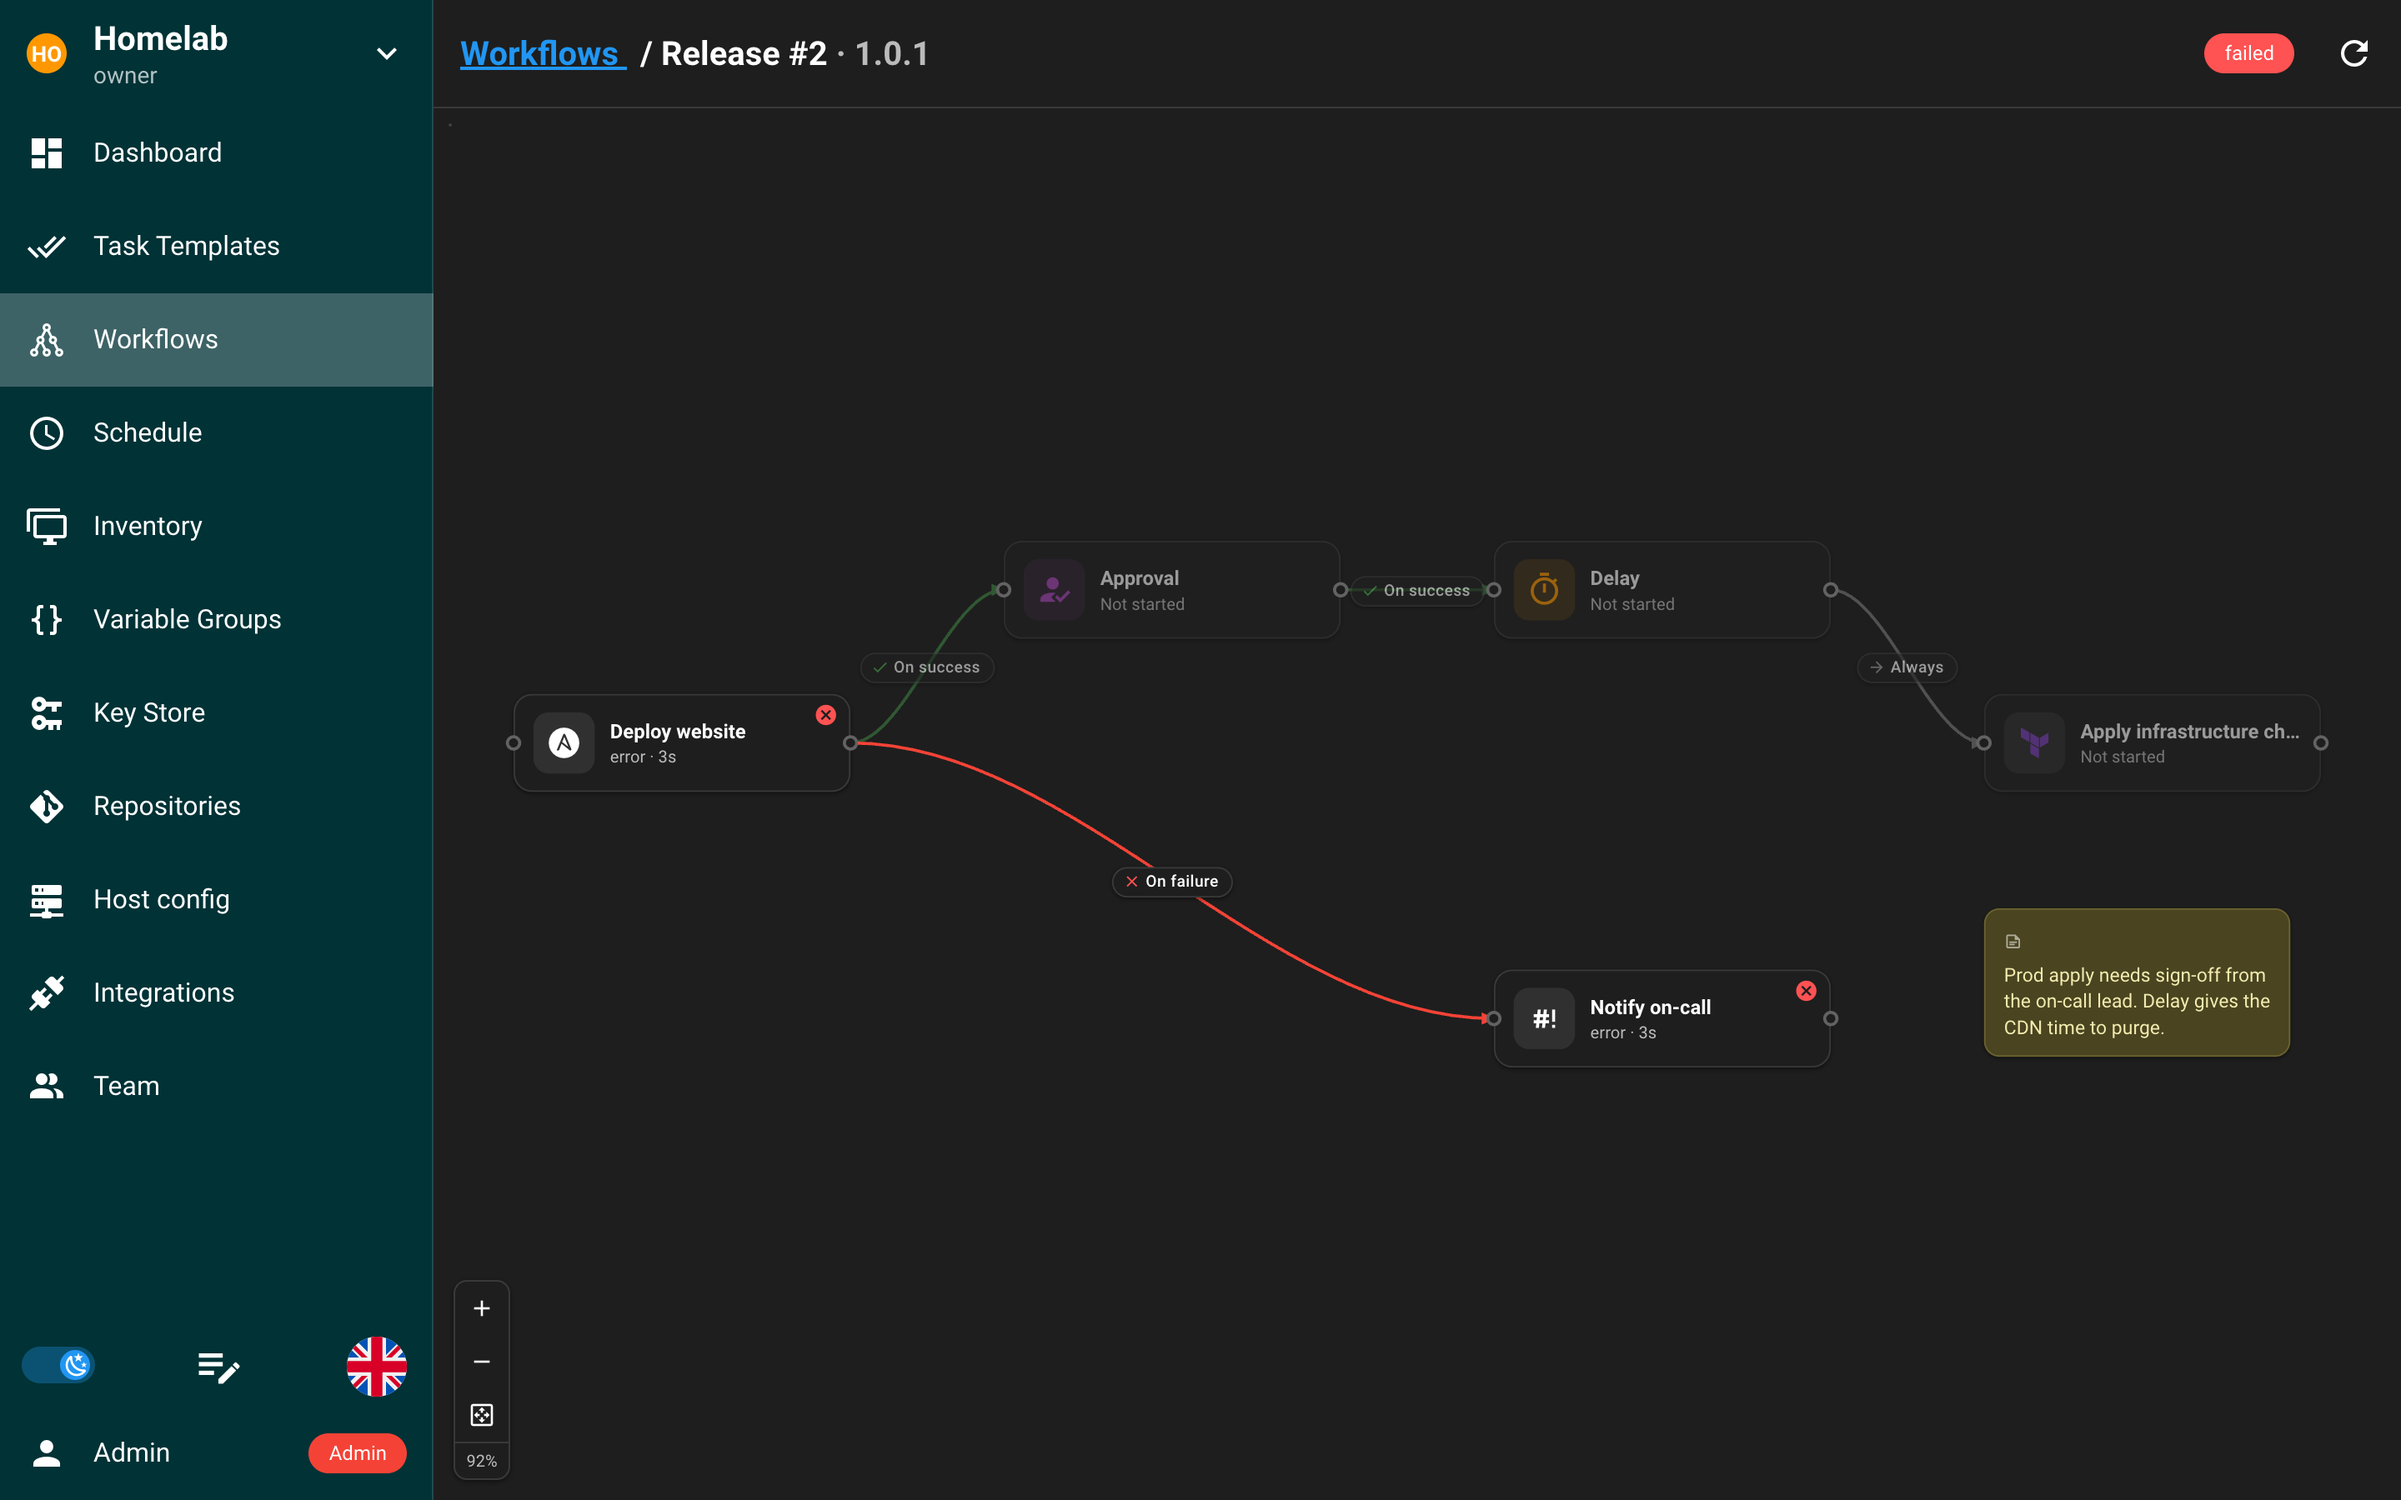
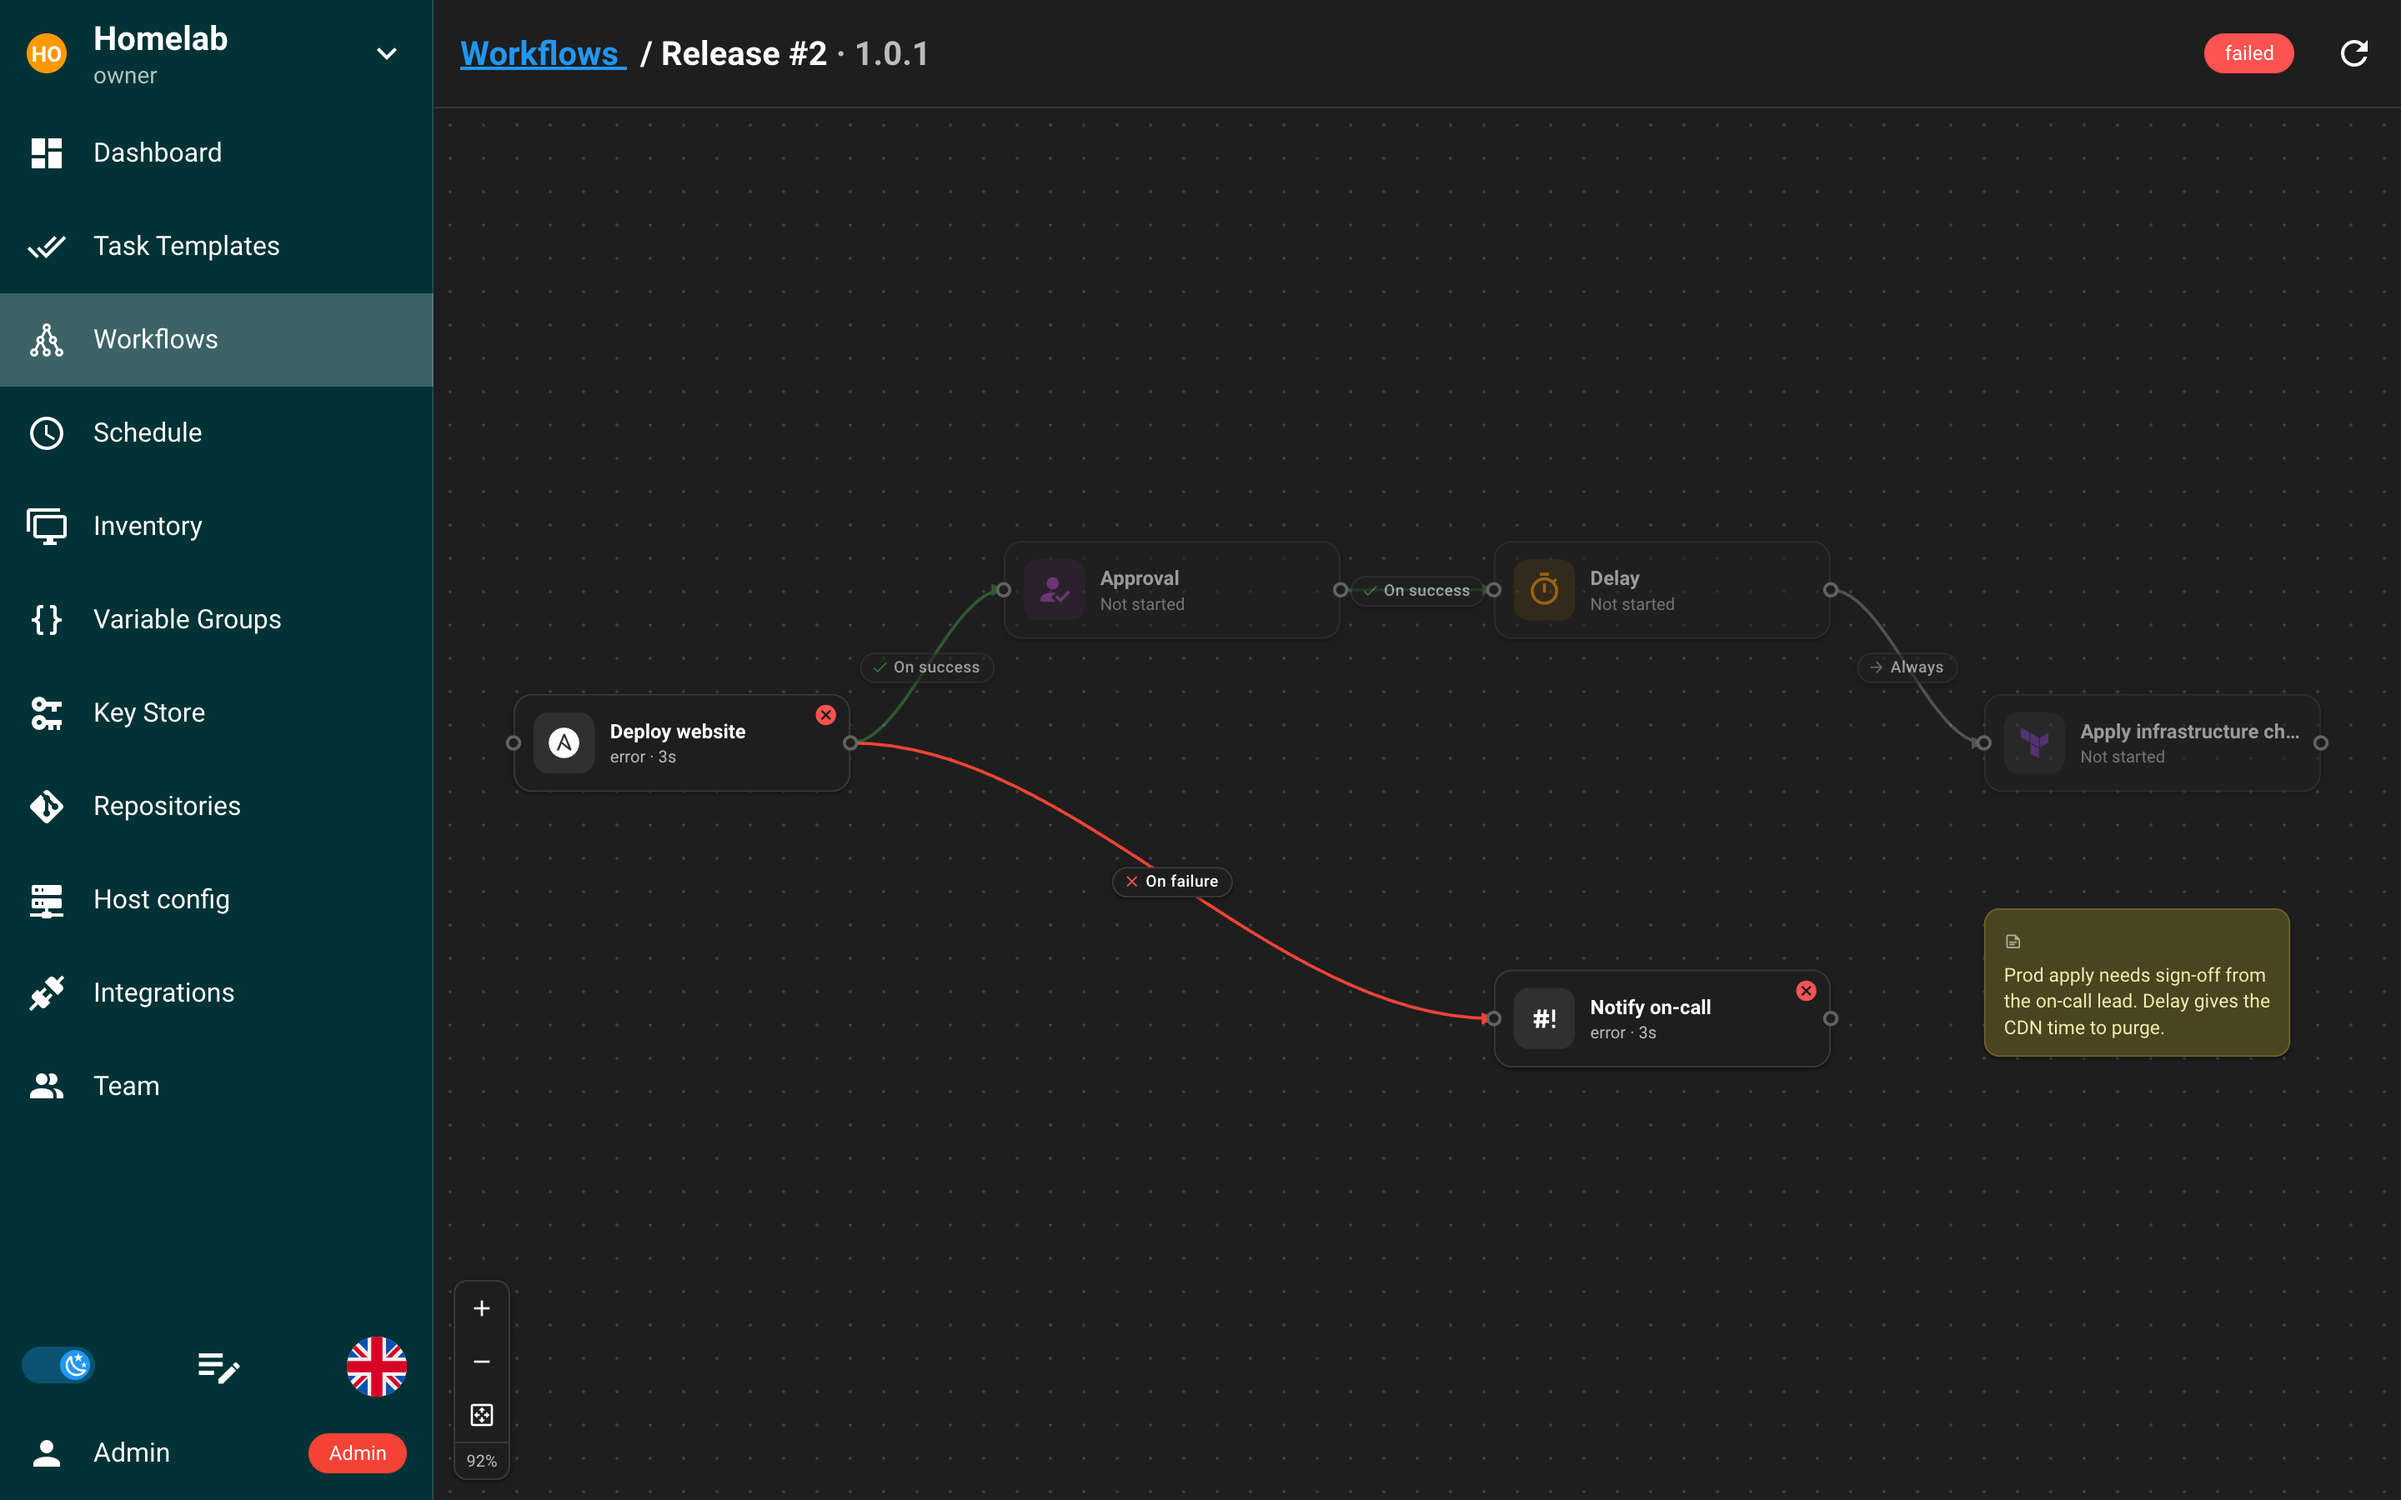
feat(workflows): update canvas background

diff --git a/web/src/components/WorkflowGraph.vue b/web/src/components/WorkflowGraph.vue
@@ -963,8 +963,10 @@ export default {
     width: 100%;
     height: 100%;
     outline: none;
+    // Explicit repeat: the app's global reset sets background-repeat: no-repeat.
     background-image: radial-gradient(circle, var(--wf-dot) 1px, transparent 1px);
     background-size: $wf-grid $wf-grid;
+    background-repeat: repeat;
   }
 
   &__overlay {
